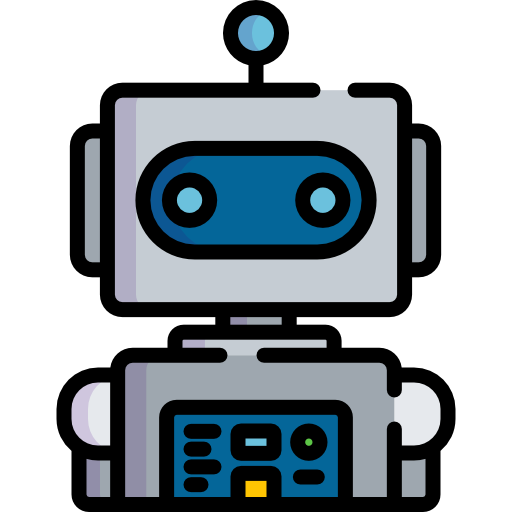
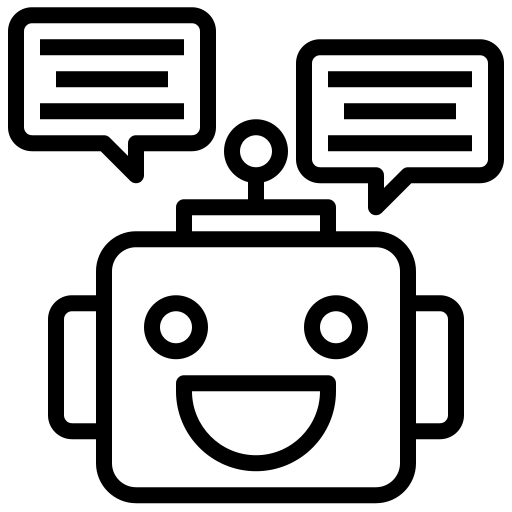
frontend send message

diff --git a/script.js b/script.js
@@ -1,0 +1,55 @@
+var button = document.getElementById("send");
+var input = document.getElementById("message");
+var messageBox = document.getElementsByClassName("box").item(0);
+var userBubbleTemplate = document.getElementsByClassName("user").item(0);
+var botBubbleTemplate = document.getElementsByClassName("bot").item(0);
+
+button.addEventListener("click", addResponsesAfterSend);
+input.addEventListener("keyup", addResponsesAfterKeypress);
+
+function addResponsesAfterSend(event) {
+    if (inputLength() > 0) {
+        createMsgBubble("user");
+        createMsgBubble("bot");
+        input.value = "";
+        messageBox.scrollTop = messageBox.scrollHeight;
+    }
+}
+
+function addResponsesAfterKeypress(event) {
+    if (inputLength() > 0 && (event.keycode === 13 || event.key === "Enter")) {
+        createMsgBubble("user");
+        createMsgBubble("bot");
+        input.value = "";
+        messageBox.scrollTop = messageBox.scrollHeight;
+    }
+}
+
+function createMsgBubble(type) {
+    var messageBubble = document.createElement("div");
+    var img = document.createElement("img");
+    var text = document.createElement("p");
+    text.classList.add("text");
+    messageBubble.classList.add("bubble");
+
+    if (type == "user") {
+        var textContent = document.createTextNode(input.value);
+
+        img.src = "image/user.png";
+        messageBubble.classList.add("user");
+    } else if (type == "bot") {
+        var textContent = document.createTextNode("placeholder");
+
+        img.src = "image/robot.png";
+        messageBubble.classList.add("bot");
+    }
+
+    text.appendChild(textContent);
+    messageBubble.appendChild(img);
+    messageBubble.appendChild(text);
+    messageBox.appendChild(messageBubble);
+}
+
+function inputLength() {
+    return input.value.length;
+}

diff --git a/style.css b/style.css
@@ -14,6 +14,14 @@ img {
     padding: 10px;
     display: flex;
     flex-direction: column;
+    overflow-y: auto;
+    height: 25em;
+}
+
+.center {
+    width: 720px;
+    margin-left: auto;
+    margin-right: auto;
 }
 
 .bubble {
@@ -27,7 +35,6 @@ img {
     border-radius: 5px;
     margin-top: 0.25em;
     margin-bottom: 0.25em;
-    /* border: 2px solid #dedede; */
 }
 
 .bubble:hover {
@@ -38,6 +45,27 @@ img {
     background-color: #f1f0f0;
     text-align: left;
     width: fit-content;
+}
+
+img:hover {
+    animation: bounce 1s;
+}
+
+@keyframes bounce {
+    0%, 20%, 60%, 100% {
+        -webkit-transform: translateY(0);
+        transform: translateY(0);
+    }
+
+    40% {
+        -webkit-transform: translateY(-20px);
+        transform: translateY(-20px);
+    }
+
+    80% {
+        -webkit-transform: translateY(-10px);
+        transform: translateY(-10px);
+    }
 }
 
 .header {
@@ -58,4 +86,23 @@ img {
 
 .user p {
     color: #ffffff;
+}
+
+::-webkit-scrollbar {
+    width: 20px;
+}
+
+::-webkit-scrollbar-track {
+background-color: transparent;
+}
+
+::-webkit-scrollbar-thumb {
+background-color: #d6dee1;
+border-radius: 20px;
+border: 6px solid transparent;
+background-clip: content-box;
+}
+
+::-webkit-scrollbar-thumb:hover {
+background-color: #a8bbbf;
 }

diff --git a/index.html b/index.html
@@ -14,9 +14,9 @@
         <h1>roBOT</h1>
         <h2>Your Personal Assistant</h2>
     </div>
-    <div class="box">
+    <div class="box center">
         <div class="bubble bot">
-            <img src="image/robotic.png" alt="">
+            <img src="image/robot.png" alt="">
             <p class="text">
                 Masukkan perintah untuk mencatat tugas milikmu
             </p>
@@ -28,14 +28,14 @@
             </p>
         </div>
         <div class="bubble bot">
-            <img src="image/robotic.png" alt="">
+            <img src="image/robot.png" alt="">
             <p class="text">
                 Maaf, perintah yang kamu masukkan tidak dikenali
             </p>
         </div>
     </div>
-    <div>
-        <textarea name="message box" id="" cols="30" rows="10">Input your message here</textarea>
-    </div>
+    <input type="text" name="message" id="message" placeholder="Masukkan perintah di sini" size="90">
+    <button type="button" id="send">Send</button>
+    <script type="text/javascript" src="script.js"></script>
 </body>
 </html>
